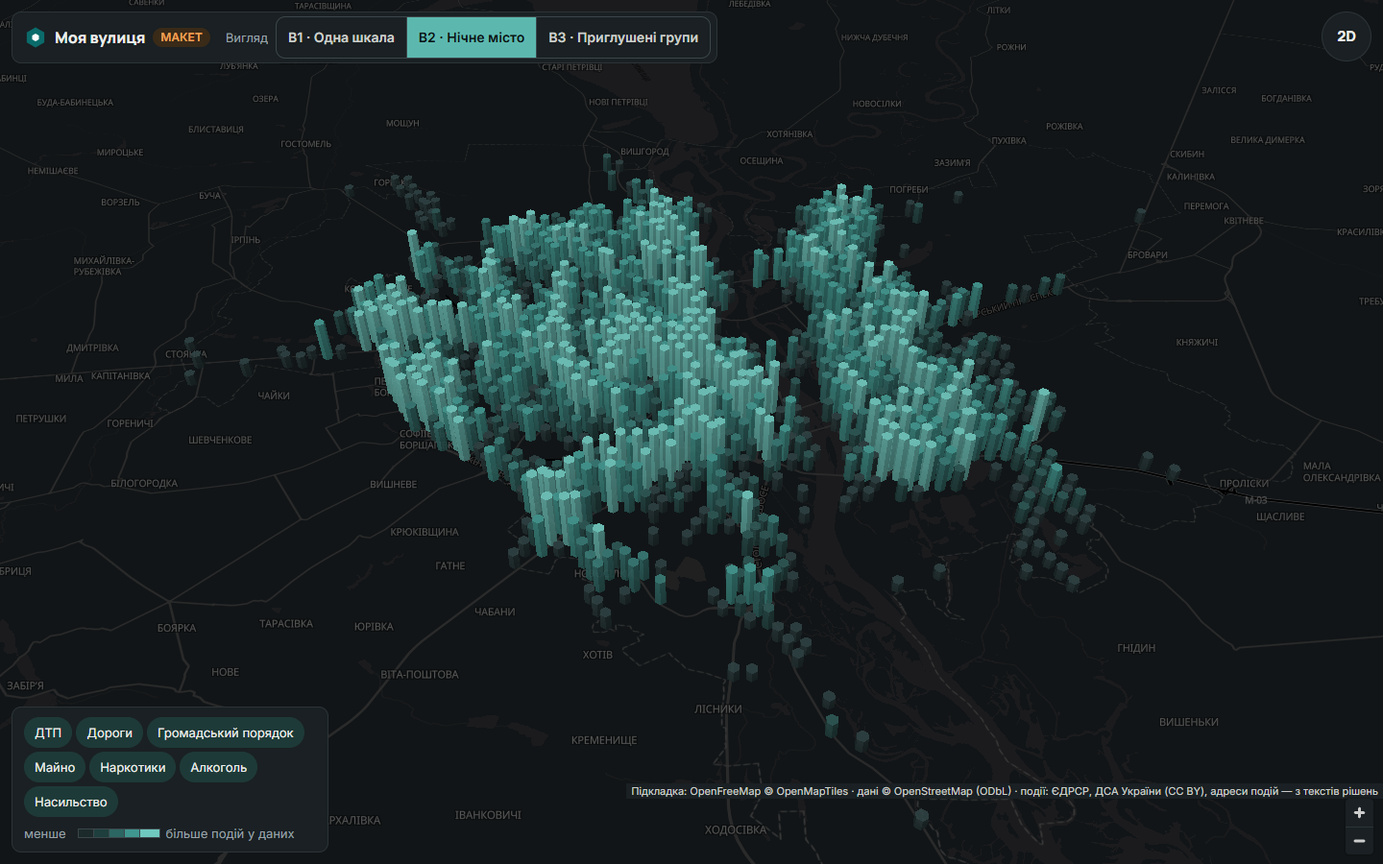
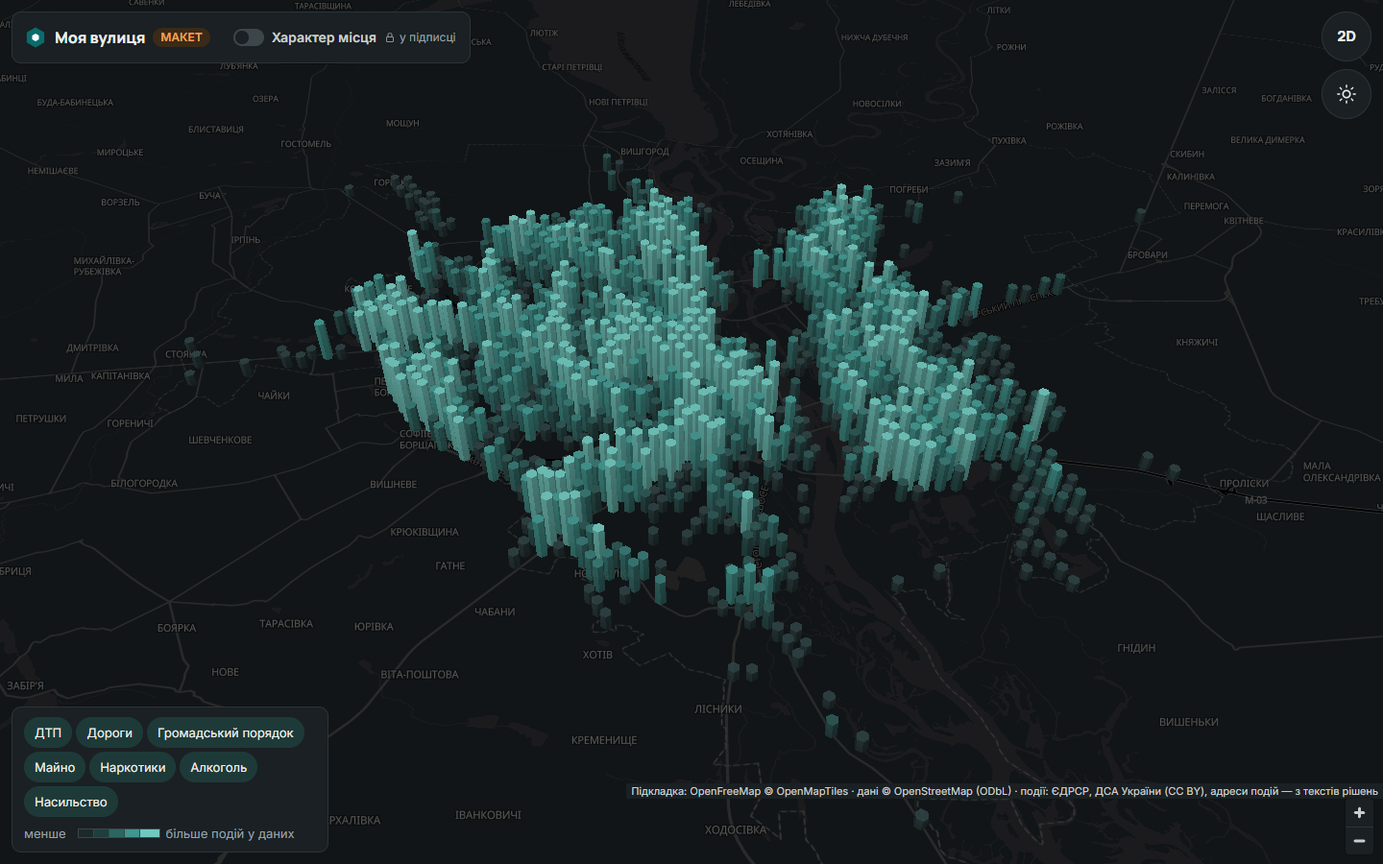
Макет М2: тема кнопкою, кольори груп — «Характер місця»
Тема як S-К.2 карти Києва: за системою, далі кнопка, вибір у пам'яті.
Кольори груп — за перемикачем із позначкою «у підписці».

Changed region(s): [[0.1562, 0.0, 0.5, 0.0933], [0.9688, 0.0933, 1.0, 0.1244]]

diff --git a/maket/m1/index.html b/maket/m1/index.html
@@ -38,13 +38,14 @@ button:focus-visible,a:focus-visible{outline:2px solid var(--accent);outline-off
 #verkh{top:12px;left:12px;display:flex;align-items:center;gap:16px;padding:4px 6px 4px 12px;min-height:52px}
 .znak{display:flex;align-items:center;gap:8px;font:800 16px/20px var(--disp);white-space:nowrap}
 .mitka{font:600 12px/16px var(--sans);color:var(--attention);background:var(--attention-soft);padding:2px 8px;border-radius:var(--radius-pill)}
-.perem{display:flex;align-items:center;gap:8px}
-.perem>span{font:400 13px/18px var(--sans);color:var(--muted);white-space:nowrap}
-.seg{display:flex;border:1px solid var(--line-strong);border-radius:var(--radius-m);overflow:hidden}
-.seg button{border:0;background:none;min-height:42px;min-width:44px;padding:0 12px;font:600 14px/20px var(--sans);color:var(--ink-2);white-space:nowrap}
-.seg button+button{border-left:1px solid var(--line-strong)}
-.seg button[aria-pressed=true]{background:var(--accent);color:var(--on-accent)}
 #f3d{position:absolute;z-index:5;top:12px;right:12px;width:52px;height:52px;border-radius:50%;border:1px solid var(--line);background:var(--surface);font:800 15px/20px var(--disp)}
+#kharakter{display:flex;align-items:center;gap:8px;min-height:44px;padding:0 8px;border:0;border-radius:var(--radius-m);background:none;font:600 14px/20px var(--sans);color:var(--ink-2);white-space:nowrap}
+#kharakter .sw{flex:none;position:relative;width:32px;height:18px;border-radius:var(--radius-pill);background:var(--line-strong)}
+#kharakter .sw::after{content:'';position:absolute;left:2px;top:2px;width:14px;height:14px;border-radius:50%;background:var(--surface)}
+#kharakter[aria-pressed=true] .sw{background:var(--accent)}
+#kharakter[aria-pressed=true] .sw::after{left:16px}
+#kharakter .u-pid{display:flex;align-items:center;gap:4px;font:400 12px/16px var(--sans);color:var(--muted)}
+#ftema{position:absolute;z-index:5;top:72px;right:12px;width:52px;height:52px;display:flex;align-items:center;justify-content:center;border-radius:50%;border:1px solid var(--line);background:var(--surface);color:var(--ink)}
 #tykha{position:absolute;z-index:4;left:50%;top:76px;transform:translateX(-50%);padding:4px 12px;border-radius:var(--radius-pill);
  background:var(--surface);border:1px solid var(--line);color:var(--muted);font:400 13px/18px var(--sans);white-space:nowrap;pointer-events:none}
 #tykha[hidden],#kartka[hidden]{display:none}
@@ -105,10 +106,13 @@ button:focus-visible,a:focus-visible{outline:2px solid var(--accent);outline-off
 @media (max-width:700px){
  #verkh{left:8px;right:68px;top:8px;gap:8px;padding:2px 4px 2px 10px;justify-content:space-between}
  .znak span.nazva{display:none}
- .perem>span{display:none}
- .seg .povna{display:none}
- .seg button{padding:0 10px}
  #f3d{top:8px;right:8px}
+ #ftema{top:68px;right:8px}
+ #kharakter{padding:0;gap:5px;font-size:13px}
+ #kharakter .sw{width:28px}
+ #kharakter[aria-pressed=true] .sw::after{left:12px}
+ #kharakter .u-pid{font-size:11px}
+ #kharakter .u-pid svg{display:none}
  #tykha{top:68px}
  #lehenda{left:8px;right:60px;bottom:8px;max-width:none;padding:8px 10px}
  #lehenda ul{display:none;padding-bottom:6px}
@@ -146,10 +150,10 @@ button:focus-visible,a:focus-visible{outline:2px solid var(--accent);outline-off
 <div id="map" aria-label="Карта Києва сотами"></div>
 <div id="verkh" class="plashka">
  <div class="znak"><svg width="24" height="24" viewBox="0 0 24 24" aria-hidden="true"><path d="M12 1.5 21.1 6.75V17.25L12 22.5 2.9 17.25V6.75Z" fill="#0B6B6B"/><path d="M12 8 15.5 10V14L12 16 8.5 14V10Z" fill="#fff"/></svg><span class="nazva">Моя вулиця</span><span class="mitka">МАКЕТ</span></div>
- <div class="perem"><span>Вигляд</span><div class="seg" role="group" aria-label="Варіант вигляду карти">
-  <button type="button" data-vyh="1" aria-pressed="true" aria-label="В1, одна шкала">В1<span class="povna"> · Одна шкала</span></button><button type="button" data-vyh="2" aria-pressed="false" aria-label="В2, нічне місто">В2<span class="povna"> · Нічне місто</span></button><button type="button" data-vyh="3" aria-pressed="false" aria-label="В3, приглушені групи">В3<span class="povna"> · Приглушені групи</span></button></div></div>
+ <button id="kharakter" type="button" aria-pressed="false"><span class="sw"></span>Характер місця<span class="u-pid"><svg width="12" height="12" viewBox="0 0 24 24" fill="none" stroke="currentColor" stroke-width="1.75" stroke-linecap="round" stroke-linejoin="round" aria-hidden="true"><rect x="5" y="11" width="14" height="10" rx="2"/><path d="M8 11V7a4 4 0 0 1 8 0v4"/></svg>у підписці</span></button>
 </div>
 <button id="f3d" type="button" aria-label="Перемкнути 3D і 2D">2D</button>
+<button id="ftema" type="button"></button>
 <div id="tykha" hidden>будинки — у підписці</div>
 <div id="lehenda" class="plashka"><button id="hr-vidkr" type="button" aria-expanded="false">Групи</button><ul></ul><div class="shkala"></div></div>
 <aside id="kartka" class="plashka" hidden aria-label="Картка соти"></aside>
@@ -203,15 +207,20 @@ const HEXB={L:new Map(),S:new Map()};
 for(const G of HEXG){
  HEXB[G.id]=new Map(D.soty[G.id].map(r=>[r[0],{k:r[0],cx:r[1],cy:r[2],n:r[3],g:r[4],y:r[5],pik:r[6],pikN:r[7],chasN:r[8],rayon:D.rayony[r[9]]||'',oriyentyr:D.oriyentyry[r[10]]||'',pr:r[11],nf:r[3],gf:r[4],gi:0,a:0,kr:0}]));
 }
-// Три варіанти вигляду на тих самих даних (М2). В1 і В2 — одна шкала кількості, палітра груп — лише у В3.
-const TEMY={1:'svitla',2:'temna',3:'svitla'};
+// Основний вигляд — одна шкала кількості; кольори груп — лише в режимі «Характер місця» (у підписці; у макеті просто вмикається).
 const SHKALA={svitla:['#F1F7F6','#D7EBEA','#9CCBC7','#4FA39D','#0B6B6B'],temna:['#1C2A2B','#1E3F3D','#2C6662','#3F978F','#6FC9BF']};
-const parVyh=new URLSearchParams(location.search).get('v');
-let VID=TEMY[parVyh]?parVyh:'1';
+// Тема — як S-К.2 карти Києва (base.js): перший запуск за системою, далі кнопка; вибір запам'ятовується.
+const parU=new URLSearchParams(location.search);
+let TEMA=null; try{TEMA=localStorage.getItem('mv-tema')}catch(e){}
+if(!SHKALA[TEMA]){let dark=false; try{dark=matchMedia('(prefers-color-scheme: dark)').matches}catch(e){}
+ TEMA=dark?'temna':'svitla'; try{localStorage.setItem('mv-tema',TEMA)}catch(e){}}
+// Параметри адреси — лише для знімків і перевірок, у пам'ять не йдуть.
+if(SHKALA[parU.get('tema')]) TEMA=parU.get('tema');
+let KHARAKTER=parU.get('kharakter')==='1';
 const AKTYVNI=new Set(HRUPY.map((h,i)=>i));
-document.body.dataset.t=TEMY[VID]; document.body.dataset.v=VID;
+document.body.dataset.t=TEMA;
 let MEDIANA=D.meta.mediana130;
-const kolirSoty=b=>VID==='3'?HRUPY[b.gi][2]:SHKALA[TEMY[VID]][b.kr];
+const kolirSoty=b=>KHARAKTER?HRUPY[b.gi][2]:SHKALA[TEMA][b.kr];
 // Легенда-фільтр: рахуємо соти лише за ввімкненими групами; порога кольору й медіана — за тим самим набором.
 function pererakhuvaty(){const MG=new Array(GN).fill(0); let TOT=0;
  for(const b of HEXB.L.values()) b.g.forEach((v,i)=>{if(AKTYVNI.has(i)){MG[i]+=v; TOT+=v}});
@@ -220,13 +229,13 @@ function pererakhuvaty(){const MG=new Array(GN).fill(0); let TOT=0;
   const zi=bs.filter(b=>b.nf>0).sort((a,b)=>a.nf-b.nf), L_=zi.length;
   // п'ять кроків шкали — квінтилі; сота з тим самим числом завжди одного кольору
   const por=[.2,.4,.6,.8].map(q=>L_?zi[Math.min(L_-1,Math.floor(L_*q))].nf:0);
-  zi.forEach((b,i)=>{b.gi=kolirMisca(b.gf,MG,TOT); b.kr=por.filter(x=>b.nf>=x).length; const rank=L_>1?i/(L_-1):1; b.a=Math.min(.42,.04+.42*rank*rank)});
+  zi.forEach((b,i)=>{b.gi=kolirMisca(b.gf,MG,TOT); b.kr=por.filter(x=>b.nf>=x).length; const rank=L_>1?i/(L_-1):1; b.a=TEMA==='temna'?Math.min(.6,.1+.6*rank*rank):Math.min(.42,.04+.42*rank*rank)});
   if(G.id==='S'){const ns=zi.map(b=>b.nf); MEDIANA=L_?(L_%2?ns[(L_-1)/2]:(ns[L_/2-1]+ns[L_/2])/2):0}}}
 function hexData(G,cols){const B=[...HEXB[G.id].values()].filter(b=>b.nf>0);
  const ns=B.map(b=>b.nf).sort((a,b)=>a-b), med=ns.length?ns[ns.length>>1]:0;
  const mx=Math.max(1,ns.length?ns[Math.min(ns.length-1,Math.floor(ns.length*.95))]:1);
- // В1 і В2: стовпчики всіх сот, інакше нижні кроки шкали в 3D не було б видно. В3 — від медіани, як у карті Києва.
- const vsi=VID!=='3', a0=TEMY[VID]==='temna'?.85:.78;
+ // Шкала: стовпчики всіх сот, інакше нижні кроки в 3D не було б видно. «Характер місця» — від медіани, як у карті Києва.
+ const vsi=!KHARAKTER, a0=TEMA==='temna'?.85:.78;
  return {type:'FeatureCollection',features:B.filter(b=>!cols||vsi||b.nf>=med).map(b=>({type:'Feature',
   geometry:{type:'Polygon',coordinates:hexPoly(b.cx,b.cy,G.R,cols?.62:1)},
   properties:{k:b.k,c:kolirSoty(b),cl:vsi?kolirSoty(b):svitlishe(kolirSoty(b)),a:vsi?a0:b.a,n:b.nf,h:G.R*7*(.12+.88*Math.sqrt(Math.min(1,b.nf/mx)))}}))}}
@@ -266,7 +275,7 @@ attrEl.addEventListener('click',e=>{if(e.target.closest('.k-atr-i')) attrEl.clas
 map.addControl(new maplibregl.NavigationControl({showCompass:false}),'bottom-right');
 map.addControl({onAdd:()=>attrEl,onRemove(){}},'bottom-right');
 map.setMissingStyleImageResolver(id=>{if(!map.hasImage(id)) map.addImage(id,{width:1,height:1,data:new Uint8Array(4)})});
-const postavytyStyl=()=>{const t=TEMY[VID]; map.setStyle(STYLI[t],{diff:false,transformStyle:(prev,next)=>patchStyle(next,t)})};
+const postavytyStyl=()=>{const t=TEMA; map.setStyle(STYLI[t],{diff:false,transformStyle:(prev,next)=>patchStyle(next,t)})};
 postavytyStyl();
 window.MAKET={map,HEXB,HEXG,stan:{pidkladka:false,plytky:0,pomylky:[]}};
 map.on('error',e=>MAKET.stan.pomylky.push(String(e&&e.error&&e.error.message)));
@@ -277,10 +286,10 @@ function layerVis(id,on){if(map.getLayer(id)) map.setLayoutProperty(id,'visibili
 function namalyuvaty(){for(const G of HEXG){
  layerVis('k-hex-'+G.id,MODE==='soty'); layerVis('k-hexl-'+G.id,MODE==='soty'); layerVis('k-col-'+G.id,MODE==='stovp')}}
 const cssv=n=>getComputedStyle(document.body).getPropertyValue(n).trim();
-function zafarbuvaty(){ if(!map.getSource('k-hex-L')) return; const tem=TEMY[VID]==='temna', v3=VID==='3';
+function zafarbuvaty(){ if(!map.getSource('k-hex-L')) return; const tem=TEMA==='temna', v3=KHARAKTER;
  for(const G of HEXG){map.getSource('k-hex-'+G.id).setData(hexData(G,false)); map.getSource('k-col-'+G.id).setData(hexData(G,true));
   map.setPaintProperty('k-hexl-'+G.id,'line-color',v3?'rgba(255,255,255,.4)':tem?'rgba(255,255,255,.14)':'rgba(11,107,107,.22)');
-  map.setPaintProperty('k-col-'+G.id,'fill-extrusion-opacity',v3?.55:.88)}
+  map.setPaintProperty('k-col-'+G.id,'fill-extrusion-opacity',v3?(tem?.7:.55):.88)}
  map.setPaintProperty('k-hexsel','line-color',cssv(v3?'--accent':'--ink'));
  map.setPaintProperty('k-hexselh','line-color',cssv('--surface'));
  namalyuvaty()}
@@ -320,9 +329,9 @@ map.on('zoom',pidpysZumu);
 
 // ---- Легенда-фільтр і перемикач вигляду ----
 function namalyuvatyLehendu(){
- $('#lehenda ul').innerHTML=HRUPY.map((h,i)=>`<li><button type="button" data-g="${i}" aria-pressed="${AKTYVNI.has(i)}">${VID==='3'?`<span class="krap" style="background:${h[2]}"></span>`:''}${esc(h[1])}</button></li>`).join('');
- $('.shkala').innerHTML=VID==='3'?'<span>Насиченіше — більше подій у даних</span>'
-  :`<span>менше</span><span style="display:flex;margin-left:6px">${SHKALA[TEMY[VID]].map(c=>`<i style="background:${c}"></i>`).join('')}</span><span>більше подій у даних</span>`}
+ $('#lehenda ul').innerHTML=HRUPY.map((h,i)=>`<li><button type="button" data-g="${i}" aria-pressed="${AKTYVNI.has(i)}">${KHARAKTER?`<span class="krap" style="background:${h[2]}"></span>`:''}${esc(h[1])}</button></li>`).join('');
+ $('.shkala').innerHTML=KHARAKTER?'<span>Насиченіше — більше подій у даних</span>'
+  :`<span>менше</span><span style="display:flex;margin-left:6px">${SHKALA[TEMA].map(c=>`<i style="background:${c}"></i>`).join('')}</span><span>більше подій у даних</span>`}
 namalyuvatyLehendu();
 function pislyaFiltra(){pererakhuvaty(); zafarbuvaty(); namalyuvatyLehendu();
  if(ZARAZ){if(ZARAZ.b.nf>0) namalyuvatyKartku(); else zakryty()}}
@@ -331,15 +340,22 @@ $('#lehenda').addEventListener('click',e=>{
  const b=e.target.closest('[data-g]'); if(!b) return; const i=+b.dataset.g;
  if(AKTYVNI.has(i)){if(AKTYVNI.size>1) AKTYVNI.delete(i)} else AKTYVNI.add(i);
  pislyaFiltra()});
-function vyhlyad(v){if(!TEMY[v]) return; const bulaTema=TEMY[VID]; VID=v;
- document.body.dataset.t=TEMY[v]; document.body.dataset.v=v;
- document.querySelectorAll('.seg [data-vyh]').forEach(b=>b.setAttribute('aria-pressed',String(b.dataset.vyh===v)));
- pererakhuvaty(); namalyuvatyLehendu();
- if(TEMY[v]!==bulaTema) postavytyStyl(); else zafarbuvaty();
+const IK=b=>`<svg width="22" height="22" viewBox="0 0 24 24" fill="none" stroke="currentColor" stroke-width="1.75" stroke-linecap="round" stroke-linejoin="round" aria-hidden="true">${b}</svg>`;
+const SONTSE=IK('<circle cx="12" cy="12" r="4"/><path d="M12 2v2M12 20v2M4.9 4.9l1.4 1.4M17.7 17.7l1.4 1.4M2 12h2M20 12h2M4.9 19.1l1.4-1.4M17.7 6.3l1.4-1.4"/>');
+const MISYATS=IK('<path d="M20 14.5A8 8 0 1 1 9.5 4a6.5 6.5 0 0 0 10.5 10.5Z"/>');
+function knopkaTemy(){const b=$('#ftema'), tem=TEMA==='temna', t=tem?'Увімкнути світлу тему':'Увімкнути темну тему';
+ b.innerHTML=tem?SONTSE:MISYATS; b.setAttribute('aria-label',t); b.title=t}
+function postavytyTemu(t){if(!SHKALA[t]||t===TEMA) return; TEMA=t; try{localStorage.setItem('mv-tema',t)}catch(e){}
+ document.body.dataset.t=t; knopkaTemy(); pererakhuvaty(); namalyuvatyLehendu(); postavytyStyl();
  if(ZARAZ) namalyuvatyKartku()}
-document.querySelector('.seg').addEventListener('click',e=>{const b=e.target.closest('[data-vyh]'); if(b) vyhlyad(b.dataset.vyh)});
-document.querySelectorAll('.seg [data-vyh]').forEach(b=>b.setAttribute('aria-pressed',String(b.dataset.vyh===VID)));
-MAKET.vyhlyad=vyhlyad;
+function postavytyKharakter(on){KHARAKTER=on; $('#kharakter').setAttribute('aria-pressed',String(on));
+ pererakhuvaty(); namalyuvatyLehendu(); zafarbuvaty();
+ if(ZARAZ) namalyuvatyKartku()}
+$('#ftema').onclick=()=>postavytyTemu(TEMA==='temna'?'svitla':'temna');
+$('#kharakter').onclick=()=>postavytyKharakter(!KHARAKTER);
+$('#kharakter').setAttribute('aria-pressed',String(KHARAKTER));
+knopkaTemy();
+MAKET.tema=postavytyTemu; MAKET.kharakter=postavytyKharakter;
 
 // ---- Картка соти за MV-32 ----
 const ZAMOK='<svg width="12" height="12" viewBox="0 0 24 24" fill="none" stroke="currentColor" stroke-width="1.75" stroke-linecap="round" stroke-linejoin="round" aria-hidden="true"><rect x="5" y="11" width="14" height="10" rx="2"/><path d="M8 11V7a4 4 0 0 1 8 0v4"/></svg>';
@@ -366,7 +382,7 @@ function namalyuvatyKartku(){const {G,b}=ZARAZ, el=$('#kartka'), m=D.meta, n=b.n
  }else{
   const NAS=HRUPY.findIndex(h=>h[0]==='nas');
   const top=b.gf.map((v,i)=>[v,i]).filter(x=>x[1]!==NAS&&x[0]>0).sort((x,y)=>y[0]-x[0]).slice(0,3);
-  const ryadky=top.map(([v,i])=>`<div class="hr"><span class="krap" style="background:${VID==='3'?HRUPY[i][2]:'var(--line-strong)'}"></span><span>${esc(HRUPY[i][1])}</span><b>${fmt(v)}</b></div>`).join('');
+  const ryadky=top.map(([v,i])=>`<div class="hr"><span class="krap" style="background:${KHARAKTER?HRUPY[i][2]:'var(--line-strong)'}"></span><span>${esc(HRUPY[i][1])}</span><b>${fmt(v)}</b></div>`).join('');
   const nas=b.gf[NAS]>0?`<div class="nas"><span>Насильство</span><b>${fmt(b.gf[NAS])}</b></div>`:'';
   const pik=b.chasN>=5
    ?`<div class="pik"><b>${String(b.pik).padStart(2,'0')}:00–${String((b.pik+1)%24).padStart(2,'0')}:00</b><span>${fmt(b.pikN)} з ${fmt(b.chasN)} ${pl(b.chasN,'події','подій','подій')}, де суд указав час</span></div>`
@@ -433,7 +449,7 @@ map.on('click',e=>{const h=vluchannya(e.point,telefon()); if(h){TIP.remove(); vi
 map.on('mousemove',e=>{ if(telefon()) return; const h=vluchannya(e.point,false);
  map.getCanvas().style.cursor=h?'pointer':'';
  if(!h) return TIP.remove();
- const t=h.b.nf<5?'Мало даних':`${fmt(h.b.nf)} ${pl(h.b.nf,'подія','події','подій')}`+(VID==='3'?` · ${esc(HRUPY[h.b.gi][1])}`:'');
+ const t=h.b.nf<5?'Мало даних':`${fmt(h.b.nf)} ${pl(h.b.nf,'подія','події','подій')}`+(KHARAKTER?` · ${esc(HRUPY[h.b.gi][1])}`:'');
  TIP.setLngLat(e.lngLat).setHTML(`<b>${t}</b>`).addTo(map)});
 map.on('mouseout',()=>TIP.remove());
 </script>

diff --git a/tests/test_maket_m1.py b/tests/test_maket_m1.py
@@ -50,16 +50,22 @@ class StorinkaMaketa(unittest.TestCase):
         self.assertNotIn('років історії — у підписці', self.html)
         self.assertIn('неповний рік', self.html)
 
-    def test_try_vyhlyady(self):
-        for v in '123':
-            self.assertIn(f'data-vyh="{v}"', self.html)
+    def test_temy_i_kharakter_mistsia(self):
         self.assertIn('tiles.openfreemap.org/styles/dark', self.html)
         for kolir in ('#F1F7F6', '#0B6B6B', '#1C2A2B', '#6FC9BF'):
             self.assertIn(kolir, self.html)
+        self.assertIn('Характер місця', self.html)
+        self.assertIn('у підписці', self.html)
+        self.assertNotIn('data-vyh', self.html)
 
-    def test_paliatra_hrup_lyshe_u_v3(self):
-        self.assertIn("VID==='3'?HRUPY[b.gi][2]:SHKALA", self.html)
-        self.assertIn("VID==='3'?HRUPY[i][2]:'var(--line-strong)'", self.html)
+    def test_tema_za_systemoyu_i_pamiat_z_try_catch(self):
+        self.assertIn("prefers-color-scheme: dark", self.html)
+        self.assertIn("try{TEMA=localStorage.getItem('mv-tema')}catch(e){}", self.html)
+        self.assertIn("try{localStorage.setItem('mv-tema',t)}catch(e){}", self.html)
+
+    def test_paliatra_hrup_lyshe_v_kharakteri(self):
+        self.assertIn("KHARAKTER?HRUPY[b.gi][2]:SHKALA", self.html)
+        self.assertIn("KHARAKTER?HRUPY[i][2]:'var(--line-strong)'", self.html)
 
     def test_kartka_vuzka_i_bez_pereletu(self):
         self.assertIn('--shyryna:320px', self.html)

diff --git a/ZVIT-M1.md b/ZVIT-M1.md
@@ -4,7 +4,7 @@
 
 ## Головне
 
-Макет готовий у трьох виглядах із перемикачем угорі: В1 «Одна шкала», В2 «Нічне місто», В3 «Приглушені групи». Старші роки — лише варіант А. Чекає вибору вигляду.
+Основа макета — одна шкала кількості (колишні В1 і В2 — це тепер світла й темна тема). Кольори груп (колишній В3) сховано за перемикачем «Характер місця» з позначкою «у підписці»; у макеті він просто вмикається. Старші роки — лише варіант А.
 Справжній телефон ще не перевірено, лише емуляцію 390×844. Правил брандмауера виконавець не міняв.
 
 Репозиторій лишається публічним (рішення Андрія 09.11). У PR публічно лежать суми по сотах із пробного випуску, знімки й частини коду карти Києва; адрес будинків і описів справ немає.
@@ -12,38 +12,40 @@
 ## Як подивитись
 
 Сервер працює на 0.0.0.0:8731. На цьому ПК: `http://127.0.0.1:8731/`, у домашній мережі: `http://192.168.0.107:8731`.
-Сторінка працює лише через сервер, подвійним кліком не відкриється. Вигляд можна задати адресою: `?v=1`, `?v=2`, `?v=3`.
+Сторінка працює лише через сервер, подвійним кліком не відкриється. Для перевірок є параметри адреси `?tema=svitla`, `?tema=temna`, `?kharakter=1`; у пам'ять браузера вони не йдуть.
 
-Знімки — `znimky/m1/`, файли `v1-…`, `v2-…`, `v3-…`: `pk-1440`, `pk-1366`, `telefon`, для кожного `misto` і `kartka`. Файли без префікса `v` — стан до М2, не видалені.
+Знімки — `znimky/m1/`: `v1-…` світла тема, `v2-…` темна, `v3-…` «Характер місця» у світлій, `v3-temna-…` у темній; для кожного `pk-1440`, `pk-1366`, `telefon`, `misto` і `kartka`. Файли без префікса `v` — стан до М2, не видалені.
 
 ## Що зроблено
 
 - Період — 2024–2026, сірі з замком — 2016–2023, 2026 позначено «неповний рік» (світліший стовпчик і підпис).
 - Дані: `vypusk-2026-11-08`. 65 707 подій із точкою. Сот 330 м — 1 177, сот 130 м — 4 640. Медіана соти 130 м за цим вікном — 8 подій.
 - Шкала В1 і В2 — `data-1…5` із `docs/STYL.md`: п'ять кроків — квінтилі кількості подій, сота з тим самим числом завжди одного кольору.
-- В1 — тепла positron під тло бренду. В2 — темна тема й підкладка OpenFreeMap dark. В3 — колір за S-К.6, приглушені тони, вибрана сота — контур `--accent`.
-- Палітра груп є лише у В3. У В1 і В2 групи видно тільки текстом — у картці й у легенді-фільтрі.
-- Картка без прокрутки й зсув з-під картки — ті самі, що в 46c0c5f, для всіх трьох виглядів.
+- Світла тема — тепла positron під тло бренду, темна — темна тема `docs/STYL.md` і підкладка OpenFreeMap dark.
+- Тема — як S-К.2 карти Києва: перший запуск за системою, далі кнопка під «2D», вибір запам'ятовується (із захистом try/catch, ключ `mv-tema`).
+- «Характер місця» — колір за S-К.6, приглушені тони, вибрана сота — контур `--accent`; працює в обох темах.
+- Кольори груп є лише в «Характері місця». В основному вигляді групи видно тільки текстом — у картці й у легенді-фільтрі.
+- Картка без прокрутки й зсув з-під картки — ті самі, що в 46c0c5f, для всіх режимів.
 - Файли: `maket/m1/index.html`, `maket/m1/dani.json` (лише суми по сотах), `maket/m1/zibraty_dani.py`, `tests/test_maket_m1.py`.
 
 ## Перевірка
 
 | Що | Результат |
 |---|---|
-| `python -m unittest discover -s tests` | 202 тести, падінь немає, 30 пропущено: 13 потребують PostgreSQL, 17 — браузер, якого не знайшли самі тести |
-| Усі соти в кожному вигляді (5 817 карток) на 1366×768 і 1440×900 | прокрутки немає жодного разу; найвища картка 660 px із 680 доступних |
-| Сота видна, не під карткою | центр карти не змінився у всіх виглядах і на всіх екранах |
-| Сота під карткою | зсув 700 мс за налаштуванням (у браузері без відеокарти виміряно 718–885 мс); зум і нахил незмінні |
-| Перемикання В1, В2, В3 на льоту | підкладка й тема міняються, помилок немає |
+| `python -m unittest discover -s tests` | 203 тести, падінь немає, 30 пропущено: 13 потребують PostgreSQL, 17 — браузер, якого не знайшли самі тести |
+| Усі соти в кожному режимі (5 817 карток) на 1366×768 і 1440×900 | прокрутки немає жодного разу; найвища картка 660 px із 680 доступних |
+| Сота видна, не під карткою | центр карти не змінився в усіх режимах і на всіх екранах |
+| Сота під карткою | зсув 700 мс за налаштуванням (у браузері без відеокарти виміряно 757–1 010 мс); зум і нахил незмінні |
+| Тема | система темна — старт темний, система світла — старт світлий; кнопка міняє, після оновлення сторінки вибір лишається; із забороненим сховищем браузера сторінка працює без помилок |
 | Легенда-фільтр | без ДТП число в соті змінилось із 394 на 90 |
 
 **Не перевірено:** справжній телефон і плавність руху очима. Браузер без відеокарти, тож знімки показують кінцевий стан.
 
 ## Що вирішити центральному чату
 
-1. **Вигляд:** В1, В2 чи В3.
+1. **«Так» на макет** у цьому вигляді.
 2. **Фільтр і розбивки.** З вимкненою групою число, порівняння й перелік груп рахуються за фільтром, а роки й година-пік лишаються за всіма групами й підписані «усі групи». Інакше публічний файл мав би роки й години окремо по насильству, а MV-32 дозволяє лише число.
-3. **Стовпчики 3D.** У В1 і В2 показано всі соти, щоб було видно всі кроки шкали; у В3 — від медіани, як у карті Києва.
+3. **Стовпчики 3D.** В основному вигляді показано всі соти, щоб було видно всі кроки шкали; у «Характері місця» — від медіани, як у карті Києва.
 4. **Легенда.** Обов'язковий підпис системи дизайну містить заборонене завданням слово, тому лишилось «більше подій у даних».
 5. **Порівняння соти 330 м.** Медіана 130 м множиться на різницю площ (×6,4), підпис — «на такій самій площі».
 6. **Сірі стовпчики** однакової висоти: цих років немає в даних, і висота нічого не означає.

diff --git a/docs/08-stan.md b/docs/08-stan.md
@@ -10,7 +10,7 @@
 | 1 | **Сервер і наповнення бази** (MV-7, MV-19, MV-40): черга 2,52 млн рішень, 4–10 потоків, ≈ тиждень (оцінка); події 2024–2026 — за кілька годин від старту. Сервер на партнера лише на час завантаження, потім копія в приватний Release | код — гілка `zavdannya-15` у `dani-edrsr` (чекає злиття); старт — коли партнер замовить сервер, `dani-edrsr/SERVER.md` |
 | 1а | **Структура бази й правила** — обговорюємо по блоках ([документ](https://claude.ai/artifact/96gjTHLg8piqL5L6w53QZx)) | блок 1 «що таке подія» ✓ MV-33; блок 2 «доступ» ✓ MV-34; блок 3 «місце» ✓ MV-35; блок 4 «соти й проблеми» ✓ MV-36; блок 5 «життя бази» ✓ MV-37, 09.11. **Обговорення завершено.** Далі — завдання на дані «MV-33…MV-36 у коді»; MV-38 — платний аналіз, принцип статей; MV-39 — події у звіті двома шарами |
 | 2 | **Вміст соти** — обговорено з Андрієм | ✓ MV-32, 09.11 |
-| 3 | **Макет карти з підкладкою** (ПК і телефон) → «так» Андрія | макет М1 зроблено (`ZVIT-M1.md`, гілка `maket-m1`, PR #30); старші роки — варіант А (Андрій, 09.11); чекає вибору вигляду В1, В2 чи В3 |
+| 3 | **Макет карти з підкладкою** (ПК і телефон) → «так» Андрія | макет М1 зроблено (`ZVIT-M1.md`, гілка `maket-m1`, PR #30); старші роки — варіант А; основа — одна шкала, тема за системою й кнопкою; кольори груп — «Характер місця», у підписці (Андрій, 09.11); чекає «так» на макет |
 | 4 | **Карта** за затвердженим макетом | після п. 3 |
 | — | Далі (MV-30): гра в карті → ролики → решта | заморожено |
 
